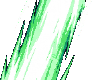
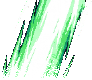
v82: Kunai Explosiva no tamanho da área, Fenda do Vento sem corte reto; documentação (feitos 137, faltam 63)
Claude-Session: https://claude.ai/code/session_013vLqrSZwT3RL88nySJpqtM

diff --git a/public/folhasAnim.js b/public/folhasAnim.js
@@ -105,7 +105,7 @@ const TIPO = {
   weapons_polida: { t: 'corpo', mao: true, intro: ['01', '02'], meio: ['03', '04'], fim: ['05', '06'] },
   weapons_arco: { t: 'lamina', fixo: true },
   weapons_3: { t: 'rastro', saida: ['01', '02'], estica: ['03', '04'], chegada: ['05', '06'] },
-  weapons_kunai: { t: 'aviso', avisa: ['01', '02'], cai: ['03'], bate: ['04', '05', '06'] },
+  weapons_kunai: { t: 'aviso', ref: '05', avisa: ['01', '02'], cai: ['03'], bate: ['04', '05', '06'] },
 };
 
 /** O jutsu tem a folha desta leva (para o fogoAnim saber se chama). */
@@ -300,7 +300,7 @@ export function folhaChao(jfx, msg, now, follow = () => null) {
     return true;
   }
   if (k.t === 'aviso' && msg.kind === 'aviso') {   // o aviso no chão, a queda no fim (o punho, o meteoro, o tornado), o golpe e o rastro
-    const sc = (2 * r) / largura(s, k.avisa[0]);
+    const sc = (2 * r) / largura(s, k.ref ?? k.avisa[0]);   // ref: o quadro do anel (o tamanho da área)
     const st = [[k.avisa[0], 0, ms * 0.55, { layer: 'ground', fadeIn: 120 }]];
     k.avisa.slice(1).forEach((f, i) => st.push([f, ms * (0.45 + i * 0.1), ms * 0.55 - i * ms * 0.1, { layer: 'ground' }]));
     const queda = Math.min(360, ms * 0.6);

diff --git a/arte/jutsus-vfx/LEIAME.md b/arte/jutsus-vfx/LEIAME.md
@@ -77,7 +77,7 @@ no tempo dos quadros. O passo a passo e as lições estão em `arte/pixelfx/LEIA
 
 ## Situação (22/11/2026)
 
-**Feitos (121):**
+**Feitos (137):**
 
 - Fogo (17): Fogo, Sopro Incinerador, Névoa Inflamável, Linha de Fogo Rasante, Revoada de Brasas, Lança de Fogo, Cinzas Detonantes, Lâmina de Fogo, Varredura Flamejante, Projétil Dracônico, Chuva de Meteoros, Marca Incandescente, Chão Incandescente, Cometa Rasteiro, Rugido da Fornalha, Coroa de Chamas, Coluna Infernal.
 - Cura (17): Cura, Desintoxicação Celular, Corte Cirúrgico, Palma Curadora, Descontrole Muscular, Punho Sísmico, Regeneração de Área, Renovação Celular, Selo dos Meridianos, Agulha Calmante, Casca de Chakra, Lâmina Séptica, Banho de Chakra, Onda Anestésica, Milagre Verde, Santuário Vital, Punho do Colosso.
@@ -86,18 +86,19 @@ no tempo dos quadros. O passo a passo e as lições estão em `arte/pixelfx/LEIA
 - Água (15, v80): Água, Serpente d’Água, Muro de Água, Duplo de Água (o desenhado anda e soca), Véu de Bruma, Estouro de Maré, Poça Viscosa, Cárcere Líquido, Prisão do Vórtice, Laço da Correnteza, Lâmina d’Água, Rajada de Gotas, Casulo de Água, Tromba d’Água, Grande Onda.
 - Sombra (18, v80): todas (a Sentinela desenhada anda e soca; o Véu Sombrio se desfaz no golpe).
 - Taijutsu (10, v80/v81): Taijutsu, Rasteira Baixa, Esquiva Rápida, Fôlego de Luta, Chute Ciclone, Despertar do Corpo, Flecha Humana, Fúria do Encurralado, Punho do Céu, Queda do Meteoro.
-- Vento (11, v81): Rajada Aberta (`wind`), Passo Aéreo, Shuriken do Vento, Véu de Vento, Balas de Vento, Espelho de Ar, Lâmina em Arco, Passo Leve, Pulso de Vento, Tornado Cortante, Asa Cortante.
+- Vento (15, v81/v82): todos (Rajada Aberta, Passo Aéreo, Shuriken do Vento, Véu de Vento, Balas de Vento, Espelho de Ar, Lâmina em Arco, Passo Leve, Pulso de Vento, Tornado Cortante, Asa Cortante, Vórtice de Ar, Corte em Cadeia, Disco do Furacão, Fenda do Vento), menos Mil Cortes do Céu e Olho da Tempestade.
+- Armas (12, v82): Chuva de Kunais (`weapons`), Shuriken Espelhada, Corte Rápido, Tapete de Pregos, Fio Peçonhento, Lâminas Flutuantes, Shuriken Colossal, Lâmina Serrilhada, Lâmina Polida, Arco de Aço, Corte Relâmpago, Kunai Explosiva.
 
-**Faltam (79), com o id e a forma no servidor:**
+**Faltam (63), com o id e a forma no servidor:**
 
 - **Cura (1):** Aura de Regeneração (`heal_aura`, zona).
 - **Relâmpago (1):** Relâmpago (`lightning`).
 - **Água (2):** Coluna d’Água (`water_coluna`, aviso); Corpo de Água (`water_corpo`, transformacao).
-- **Vento (6):** Disco do Furacão (`wind_4`, linha_explode); Vórtice de Ar (`wind_vortice`, zona); Corte em Cadeia (`wind_cadeia`, ricochete); Mil Cortes do Céu (`wind_milcortes`, meteoros); Fenda do Vento (`wind_fenda`, faixa); Olho da Tempestade (`wind_olho`, transformacao).
+- **Vento (2):** Mil Cortes do Céu (`wind_milcortes`, meteoros); Olho da Tempestade (`wind_olho`, transformacao).
 - **Pedra (1):** Esmagamento de Paredes (`stone_3`, alvo).
 - **Ilusão (18):** Ilusão (`illusion`); Dissipação (`illusion_kai`, limpeza); Visão do Abismo (`illusion_2`, linha); Estaca da Ilusão (`illusion_estaca`, linha); Noite Eterna (`illusion_noite`, alvo); Raízes do Pesadelo (`illusion_3`, alvo); Ciclo Sem Fim (`illusion_4`, alvo); Santuário das Penas (`illusion_templo`, zona); Empréstimo Forçado (`illusion_emprestimo`, alvo); Segunda Voz (`illusion_voz`, invocacao); Olho Errante (`illusion_olho`, projetil); Passo Falso (`illusion_passo`, recuo); Véu da Meia-Noite (`illusion_veu`, zona); Espelho Quebrado (`illusion_espelho`, alvo); Coro do Silêncio (`illusion_coro`, anel_golpe); Colapso Onírico (`illusion_colapso`, aviso); Canção de Ninar (`illusion_ninar`, linha); Reflexo Vazio (`illusion_reflexo`, invocacao).
 - **Taijutsu (7):** Cem Golpes (`taijutsu_3`, cone_golpe); Mergulho Esmagador (`taijutsu_lotus`, investida); Chute Ascendente (`taijutsu_ascendente`, investida); Bloqueio Firme (`taijutsu_bloqueio`, escudo); Soco de Pressão (`taijutsu_pressao`, projetil); Chave de Braço (`taijutsu_chave`, alvo); Impacto Circular (`taijutsu_impacto`, anel_golpe).
-- **Armas (17):** Armas (`weapons`); Shuriken Espelhada (`weapons_multi`, leque); Lâminas Flutuantes (`weapons_2`, zona); Shuriken Colossal (`weapons_gigante`, bumerangue); Corte Relâmpago (`weapons_3`, investida); Kunai Explosiva (`weapons_kunai`, aviso); Dança dos Mil Cortes (`weapons_4`, zona); Ascensão Dupla (`weapons_dragoes`, aviso); Fio Peçonhento (`weapons_peconha`, projetil); Corte Rápido (`weapons_corte`, linha); Tapete de Pregos (`weapons_pregos`, zona); Lâmina Serrilhada (`weapons_serrilhada`, projetil); Lâmina Polida (`weapons_polida`, buff_basico); Laço de Ferro (`weapons_laco`, agarre); Arco de Aço (`weapons_arco`, faixa); Céu de Lâminas (`weapons_ceu`, meteoros); Arsenal Vivo (`weapons_arsenal`, invocacao).
+- **Armas (5):** Dança dos Mil Cortes (`weapons_4`, zona); Ascensão Dupla (`weapons_dragoes`, aviso); Laço de Ferro (`weapons_laco`, agarre); Céu de Lâminas (`weapons_ceu`, meteoros); Arsenal Vivo (`weapons_arsenal`, invocacao).
 - **Clã Rubro (6):** Olhar Rubro (`rubro_olho`, escudo); Transe Ocular (`rubro_transe`, linha); Brasa Sem Luz (`rubro_chamas`, linha); Sentinela Espectral (`rubro_guardiao`, escudo_vida); Mundo Espelhado (`rubro_lua`, linha); Colosso Espectral (`rubro_completo`, transformacao).
 - **Clã Umbra (4):** Deslize Noturno (`umbra_deslize`, recuo); Sombra Faminta (`umbra_faminta`, marca); Noite Fechada (`umbra_noite`, zona); Forma Umbral (`umbra_forma`, forma_sombra).
 - **Clã Bastião (4):** Muralha Interior (`bastiao_muralha`, escudo_vida); Guarda Compartilhada (`bastiao_guarda`, escudo_vida); Muro que Responde (`bastiao_resposta`, postura); Juramento do Escudo (`bastiao_juramento`, postura).

diff --git a/CLAUDE.md b/CLAUDE.md
@@ -18,7 +18,7 @@ Victor: ele escreve em português e quer as respostas em português do Brasil.
   `public/figure.js` cache e giro). Detalhes em `arte/personagem-rig/LEIAME.md`. O estilo segue a folha de referência
   do Victor (chibi, contorno escuro, sombreado em 2-3 tons). Toda mudança de arte é comparada lado a lado com a
   referência e conferida dentro do jogo antes de fechar.
-- **Versão atual:** v81 na `main` (PRs #33 a #50; o #50 trouxe a v81, as folhas do Vento e mais do Taijutsu). **Banco:** todas as
+- **Versão atual:** v82 na `main` (PRs #33 a #51; o #51 trouxe a v82, mais do Vento e as Armas). **Banco:** todas as
   migrações até a **v40** rodaram no `production` do Neon (confirmado pelo Victor em 17/11/2026); nenhuma pendente.
   Jutsus v2 com 96 jutsus (10 classes, Vento nova, e o Clã Rubro), mais os 74 da Fase 2.5 e os 16 dos clãs novos;
   conjuração, sistemas próprios (muros, invocações, escuridão...), clãs por linhagem, Extração e maestria, rankeado 1v1 e
@@ -32,6 +32,7 @@ Victor: ele escreve em português e quer as respostas em português do Brasil.
   aumenta a cura, item Shuriken (consumível, botão ✴), invocações andam até o alvo e socam (Sentinela de Sombra e Arsenal
   Vivo com desenho próprio). v54: curas e escudos com valor fixo (sem % da vida), Cura rebalanceada, Cegueira como estado
   (perde o alvo), Duplo de Água bate. Mesclado (PR #34; a v32 rodou no Neon).
+- **v82 (sem migração):** mais 4 do Vento e 12 das Armas (`public/folhasAnim.js`). Mesclado (PR #51).
 - **v81 (sem migração):** 11 folhas do Vento e mais 5 do Taijutsu (`public/folhasAnim.js`: aviso em fases, o desenho que
   voa pelo caminho, o rastro no chão, os quadros ao longo do alcance). Mesclado (PR #50).
 - **v80 (sem migração):** as folhas da Água (15), da Sombra (18), do Taijutsu (5) e o Sumidouro, tocadas pela forma do
@@ -92,9 +93,9 @@ Victor: ele escreve em português e quer as respostas em português do Brasil.
 
 ## Animações dos jutsus (folhas do Victor): como continuar numa aba nova
 
-O Victor manda folhas de 6 quadros (fundo verde ou magenta) e cada uma vira a animação de um jutsu. **Feitos 121** (Fogo,
-Cura, Sombra, 16 de Relâmpago, 17 da Pedra, 15 da Água, 10 do Taijutsu e 11 do Vento, v56 e v73 a v81); **faltam 79** (Ilusão,
-Armas, 7 do Taijutsu, 6 do Vento, 2 da Água, 1 da Pedra, Relâmpago, Aura de Regeneração e os clãs). A lista completa, com o id e a forma de cada um, e o passo a passo
+O Victor manda folhas de 6 quadros (fundo verde ou magenta) e cada uma vira a animação de um jutsu. **Feitos 137** (Fogo,
+Cura, Sombra, 16 de Relâmpago, 17 da Pedra, 15 da Água, 10 do Taijutsu, 15 do Vento e 12 das Armas, v56 e v73 a v82); **faltam 63**
+(Ilusão, 5 das Armas, 7 do Taijutsu, 2 do Vento, 2 da Água, 1 da Pedra, Relâmpago, Aura de Regeneração e os clãs). A lista completa, com o id e a forma de cada um, e o passo a passo
 estão em **`arte/jutsus-vfx/LEIAME.md`**: ler antes de mexer.
 
 - **Começo da sessão:** `bash scripts/ambiente-local.sh` (Postgres local na 5433, banco `jogo` com todas as migrações,

diff --git a/README.md b/README.md
@@ -246,6 +246,14 @@ O estado fica em memória: reinício ou deploy do Render desconecta todos e as p
   servidor e o ninja admin `rin`); `arte/jutsus-vfx/capturar.ts` e `folha.py` conferem as animações dentro do jogo;
   `arte/jutsus-vfx/LEIAME.md` tem o passo a passo e a lista dos 149 jutsus que faltam.
 
+### v82: animações desenhadas do resto do Vento e das Armas (sem migração)
+
+- Vórtice de Ar, Corte em Cadeia, Disco do Furacão e Fenda do Vento; Chuva de Kunais, Shuriken Espelhada, Corte Rápido,
+  Tapete de Pregos, Fio Peçonhento, Lâminas Flutuantes, Shuriken Colossal, Lâmina Serrilhada, Lâmina Polida, Arco de
+  Aço, Corte Relâmpago e Kunai Explosiva.
+- Camadas: a carga dos selos e a faísca do acerto das Armas, em metal.
+- Faltam: 2 do Vento e 5 das Armas.
+
 ### v81: animações desenhadas do Vento e mais do Taijutsu (sem migração)
 
 - 11 do Vento (Rajada Aberta, Passo Aéreo, Shuriken do Vento, Véu de Vento, Balas de Vento, Espelho de Ar, Lâmina em
